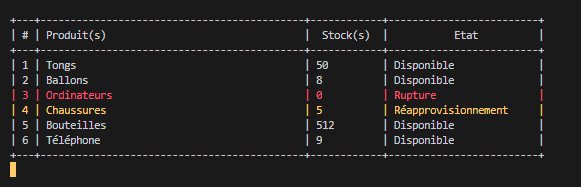
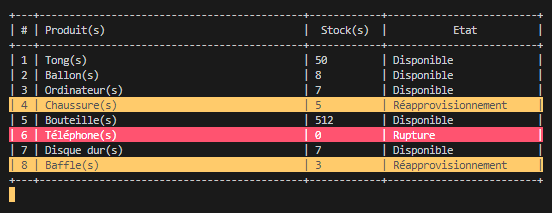
Final commit!
App polishing!

diff --git a/Program.cs b/Program.cs
@@ -140,8 +140,8 @@ namespace GestionDeStock
 
             foreach (var item in produits)
             {
-                ConsoleColor foreGroundColorToPrintWith = ConsoleColor.Gray;
-
+                //ConsoleColor foreGroundColorToPrintWith = ConsoleColor.Gray;
+                ConsoleColor foreGroundColorToPrintWith = ConsoleColor.Black;
                 if (item.Stock == 0)
                 {
                     foreGroundColorToPrintWith = ConsoleColor.Red;
@@ -151,7 +151,8 @@ namespace GestionDeStock
                 {
                     foreGroundColorToPrintWith = ConsoleColor.Yellow;
                 }
-                Console.ForegroundColor = foreGroundColorToPrintWith;
+                //Console.ForegroundColor = foreGroundColorToPrintWith;
+                Console.BackgroundColor = foreGroundColorToPrintWith;
                 string id = "";
                 if(item.Id<10) {
                     id ="| "+item.Id+" | ";
@@ -173,7 +174,8 @@ namespace GestionDeStock
                 afficherEspaceNFois(taillePermiseEtat - etatStock.Length);
                 Console.Write("|\n");
             }
-            Console.ForegroundColor = ConsoleColor.Gray;
+            //Console.ForegroundColor = ConsoleColor.Gray;
+            Console.BackgroundColor = ConsoleColor.Black;
             Console.WriteLine("+---+--------------------------------------------+------------+-------------------------+");
         }
 
